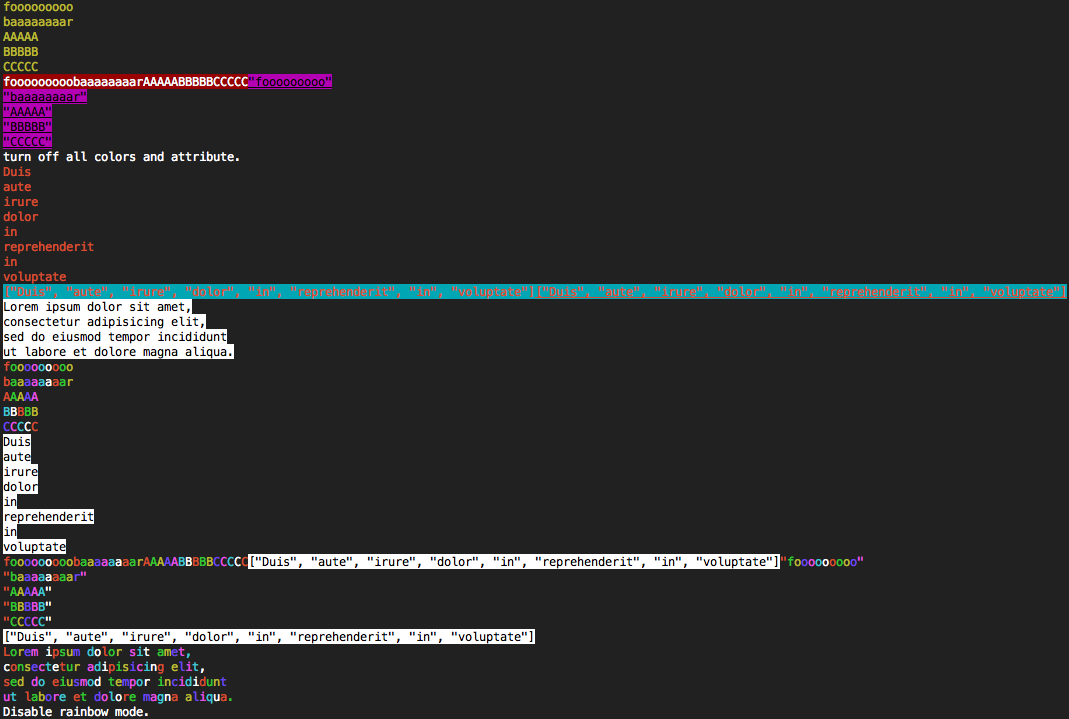
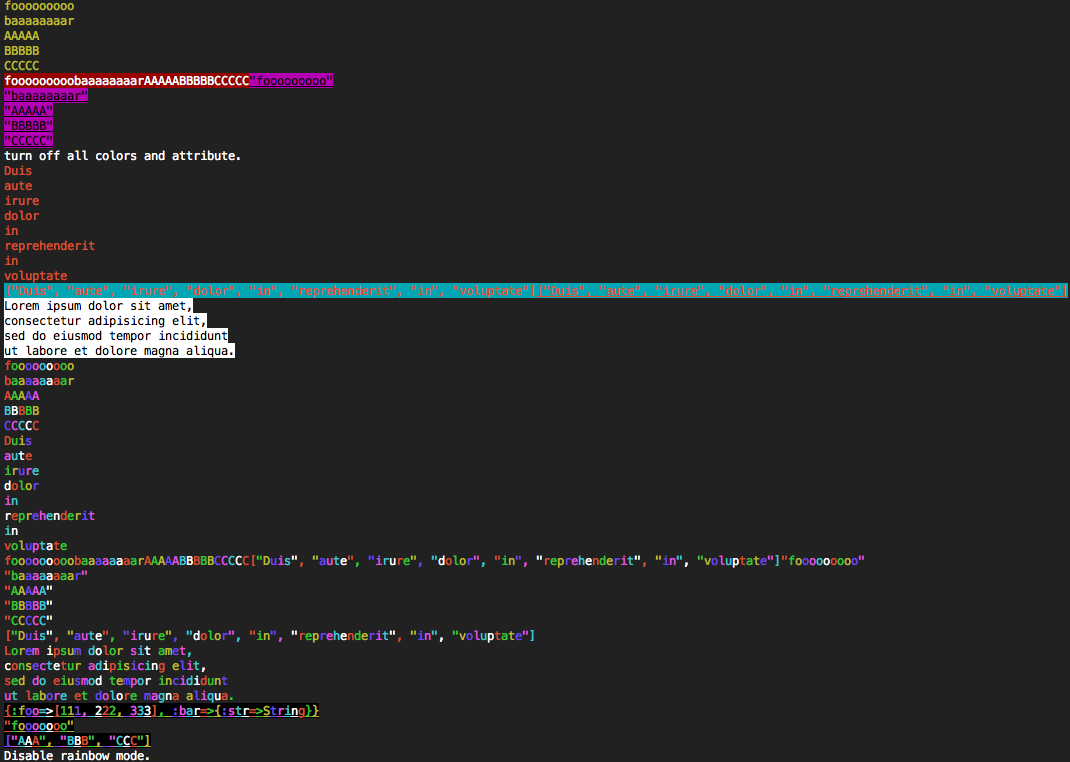
update for v0.2.4

Changed region(s): [[0.0, 0.0, 1.0, 1.0]]

diff --git a/lib/color_echo/module_functions.rb b/lib/color_echo/module_functions.rb
@@ -1,28 +1,36 @@
 module CE
+    # @return bool
     def available?
         return @@enable && @@isset
     end
 
+    # @return bool
     def isset?
         return @@isset
     end
 
+    # @return bool
     def enable?
         return @@enable
     end
 
+    # @return void
     def unuse
         @@enable = false
     end
 
+    # @return void
     def reset
         @@isset          = false
         @@rainbow        = false
         @@code_bg_color  = ""
         @@code_fg_color  = ""
         @@code_text_attr = ""
+        @@code_rainbow   = ""
     end
 
+    # @param Symbol name
+    # @return void
     def ch_fg(name)
         return nil if !name.instance_of?(Symbol)
         @@isset         = true  if !@@isset
@@ -30,6 +38,8 @@ module CE
         @@code_fg_color = convert_to_code("ForeGround", name)
     end
 
+    # @param Symbol name
+    # @return void
     def ch_bg(name)
         return nil if !name.instance_of?(Symbol)
         @@isset         = true if !@@isset
@@ -37,6 +47,8 @@ module CE
         @@code_bg_color = convert_to_code("BackGround", name)
     end
 
+    # @param Symbol name
+    # @return void
     def ch_tx(name)
         return nil if !name.instance_of?(Symbol)
         @@isset          = true if !@@isset
@@ -44,64 +56,89 @@ module CE
         @@code_text_attr = convert_to_code("TextAttr", name)
     end
 
+    # @param Symbol fg
+    # @param Symbol bg
+    # @param Symbol tx
+    # @return void
     def ch(fg, bg=nil, tx=nil)
         ch_fg(fg)
         ch_bg(bg)
         ch_tx(tx)
     end
 
+    # return start color sequence code
+    # @return String
     def get_start_code
-        return @@code_fg_color + @@code_bg_color + @@code_text_attr
+        if @@rainbow
+            return @@code_rainbow
+        else
+            return @@code_fg_color + @@code_bg_color + @@code_text_attr
+        end
     end
 
+    # @return String
     def get_reset_code
         return self::CODE_RESET
     end
 
     # add reset & start code to line feed code
+    # @param String input
     def add_reset_line_feed(input)
         input.gsub!(/#{$/}/, CE::get_reset_code + $/ + CE::get_start_code)
         input += CE::get_reset_code
         return input
     end
 
+    # change mode to rainbow
+    # @return void
     def rainbow
-        @@isset   = true if !@@isset
-        @@rainbow = true
+        @@isset        = true if !@@isset
+        @@rainbow      = true
+        @@code_rainbow = @@code_bg_color + @@code_text_attr
     end
 
+    # add code to be a rainbow color
+    # @param String text
+    # @return String
     def add_rainbow(text)
         cnt    = 0
-        output = ""
+        output = get_start_code
+
         text.each_char do |char|
             if char == $/
-                output += $/
+                output += get_reset_code + $/ + get_start_code
                 next
             end
 
             case cnt
             when 0
-                output += ForeGround::RED + char + CODE_RESET
+                output += ForeGround::RED + char + CODE_RESET + get_start_code
             when 1
-                output += ForeGround::GREEN + char + CODE_RESET
+                output += ForeGround::GREEN + char + CODE_RESET + get_start_code
             when 2
-                output += ForeGround::YELLOW + char + CODE_RESET
+                output += ForeGround::YELLOW + char + CODE_RESET + get_start_code
             when 3
-                output += ForeGround::BLUE + char + CODE_RESET
+                output += ForeGround::BLUE + char + CODE_RESET + get_start_code
             when 4
-                output += ForeGround::MAGENTA + char + CODE_RESET
+                output += ForeGround::MAGENTA + char + CODE_RESET + get_start_code
             when 5
-                output += ForeGround::CYAN + char + CODE_RESET
+                output += ForeGround::CYAN + char + CODE_RESET + get_start_code
             when 6
-                output += ForeGround::WHITE + char + CODE_RESET
+                output += ForeGround::WHITE + char + CODE_RESET + get_start_code
             end
             cnt += 1
             cnt  = 0 if cnt >= 7
         end
 
+        output += get_reset_code
+
         return output
     end
 
+    # get sequence code by symbol
+    # @param String module_name
+    # @param Symbol name
+    # @return String
     def convert_to_code(module_name, name)
         begin
             code = eval(%{#{module_name}::#{name.to_s.swapcase!}})
@@ -111,6 +148,7 @@ module CE
         return code
     end
 
+    # @return Proc
     def task
         return @@task
     end
@@ -121,10 +159,15 @@ module CE
                     :isset?,
                     :enable?,
                     :unuse,
-                    :reset, :off, :disable,
-                    :ch_fg, :fg,
-                    :ch_bg, :bg,
-                    :ch_tx, :tx,
+                    :reset,
+                    :off,
+                    :disable,
+                    :ch_fg,
+                    :fg,
+                    :ch_bg,
+                    :bg,
+                    :ch_tx,
+                    :tx,
                     :ch,
                     :get_start_code,
                     :get_reset_code,

diff --git a/lib/color_echo/variables.rb b/lib/color_echo/variables.rb
@@ -4,6 +4,7 @@ module CE
     @@code_bg_color  = ""
     @@code_fg_color  = ""
     @@code_text_attr = ""
+    @@code_rainbow   = ""
     @@rainbow        = false
 
     @@print = method :print
@@ -12,35 +13,23 @@ module CE
 
     @@task = lambda do |*arg|
         if available?
-            if @@rainbow && arg.first.instance_of?(String)
-                # change output destination to StringIO Object
-                strio   = StringIO.new
-                $stdout = strio
+            # change output destination to StringIO Object
+            strio   = StringIO.new
+            $stdout = strio
 
-                # call original method
-                eval("@@#{caller_locations(2).first.label}").call(*arg)
+            # output color sequence
+            $stdout.print get_start_code if !@@rainbow
 
-                # change output destination to STDOUT
-                $stdout = STDOUT
+            # call original method
+            eval("@@#{caller_locations(2).first.label}").call(*arg)
 
-                # output to STDOUT
+            # change output destination to STDOUT
+            $stdout = STDOUT
+
+            # output to STDOUT
+            if @@rainbow
                 $stdout.print add_rainbow(strio.string)
-
             else
-                # change output destination to StringIO Object
-                strio   = StringIO.new
-                $stdout = strio
-
-                # output color sequence
-                $stdout.print get_start_code
-
-                # call original method
-                eval("@@#{caller_locations(2).first.label}").call(*arg)
-
-                # change output destination to STDOUT
-                $stdout = STDOUT
-
-                # output to STDOUT
                 $stdout.print add_reset_line_feed(strio.string)
             end
 

diff --git a/lib/color_echo/version.rb b/lib/color_echo/version.rb
@@ -1,3 +1,3 @@
 module CE
-    VERSION = "0.2.3"
+    VERSION = "0.2.4"
 end

diff --git a/README.md b/README.md
@@ -137,6 +137,7 @@ sed do eiusmod tempor incididunt
 ut labore et dolore magna aliqua.
 EOM
 
+CE.off
 CE.rainbow
 puts "fooooooooo"
 puts "baaaaaaaar"
